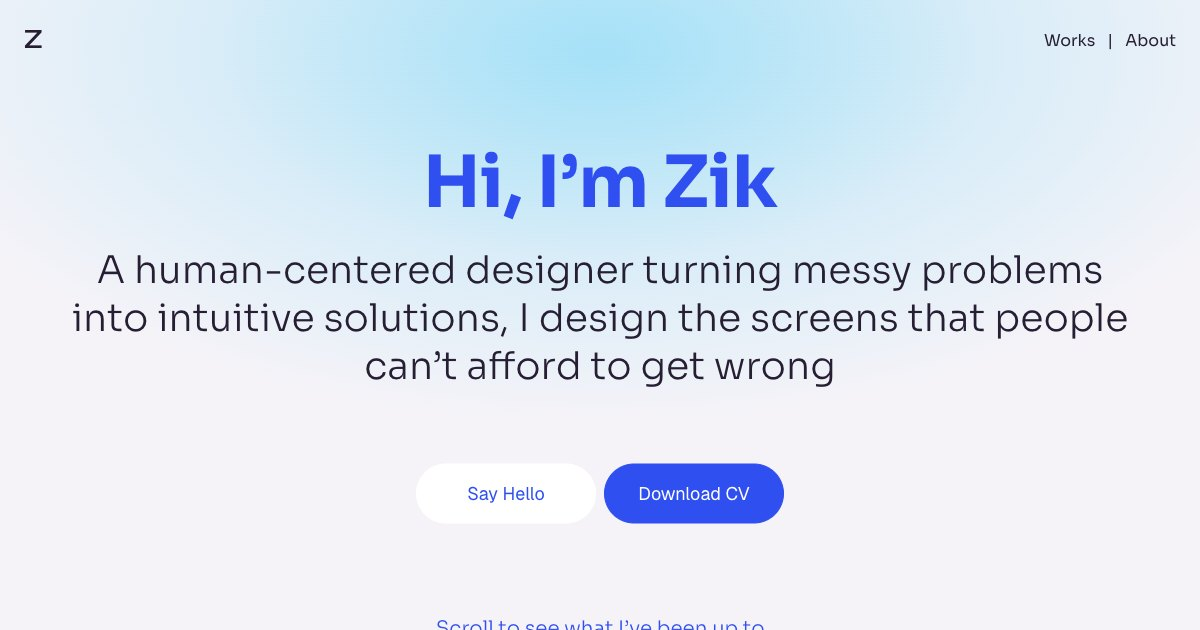
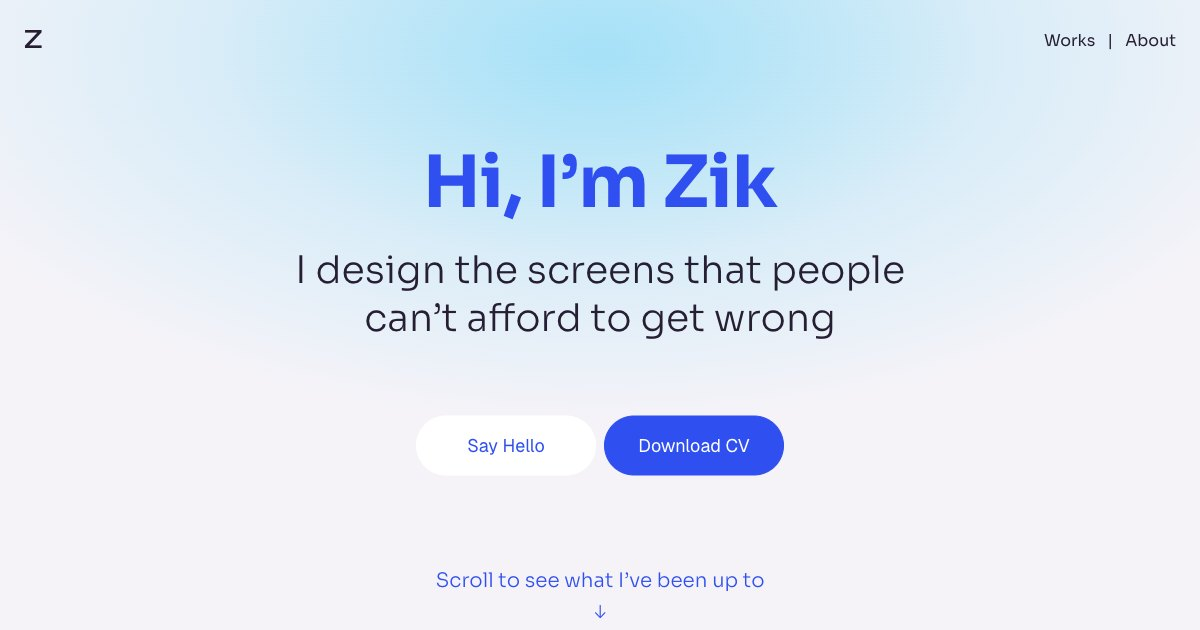
Refresh the home link-preview image

diff --git a/index.html b/index.html
@@ -13,7 +13,7 @@
 <meta property="og:site_name" content="Itzik Bitran">
 <meta property="og:title" content="Itzik Bitran · Head of Design">
 <meta property="og:description" content="Itzik Bitran, Head of Design. I design the screens that people can't afford to get wrong: clinical genomics, financial crime, threat intelligence and consumer products.">
-<meta property="og:image" content="https://itzikbitran.com/assets/share/home.jpg">
+<meta property="og:image" content="https://itzikbitran.com/assets/share/home.jpg?v=2">
 <meta property="og:image:width" content="1200">
 <meta property="og:image:height" content="630">
 <meta name="twitter:card" content="summary_large_image">
